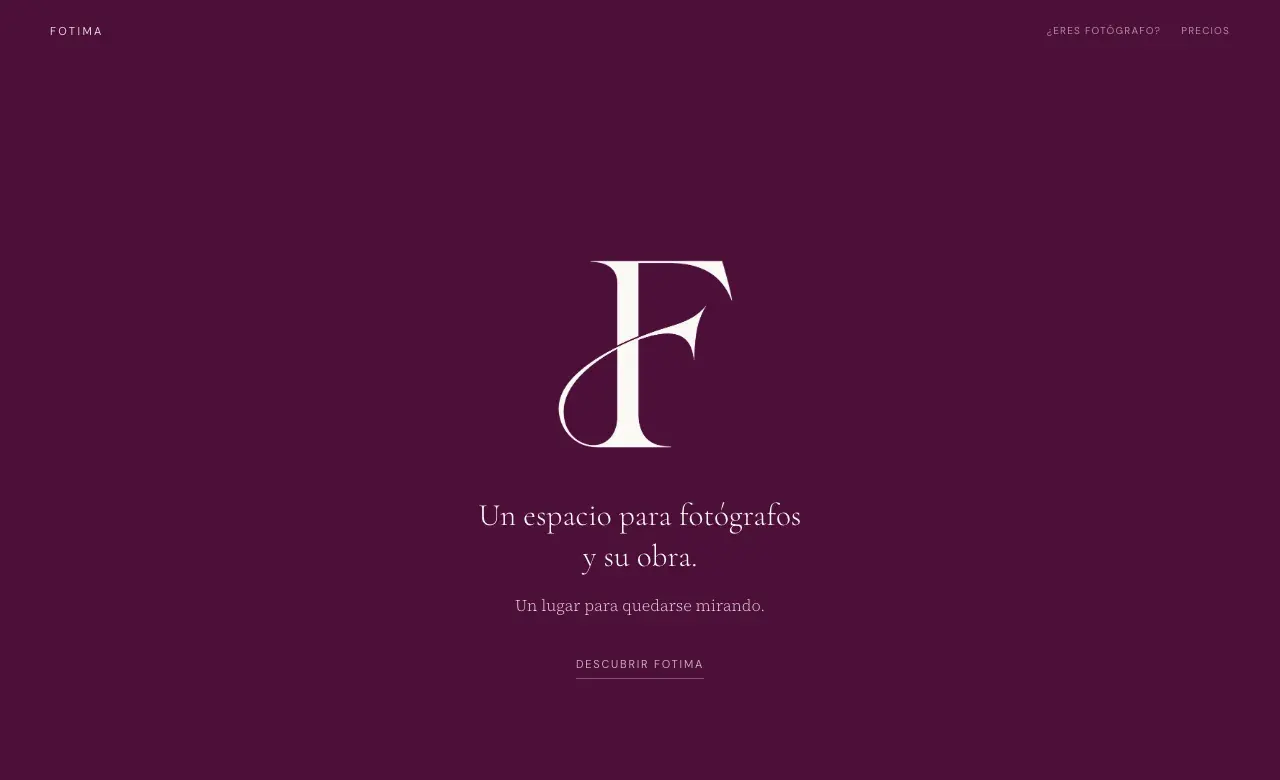
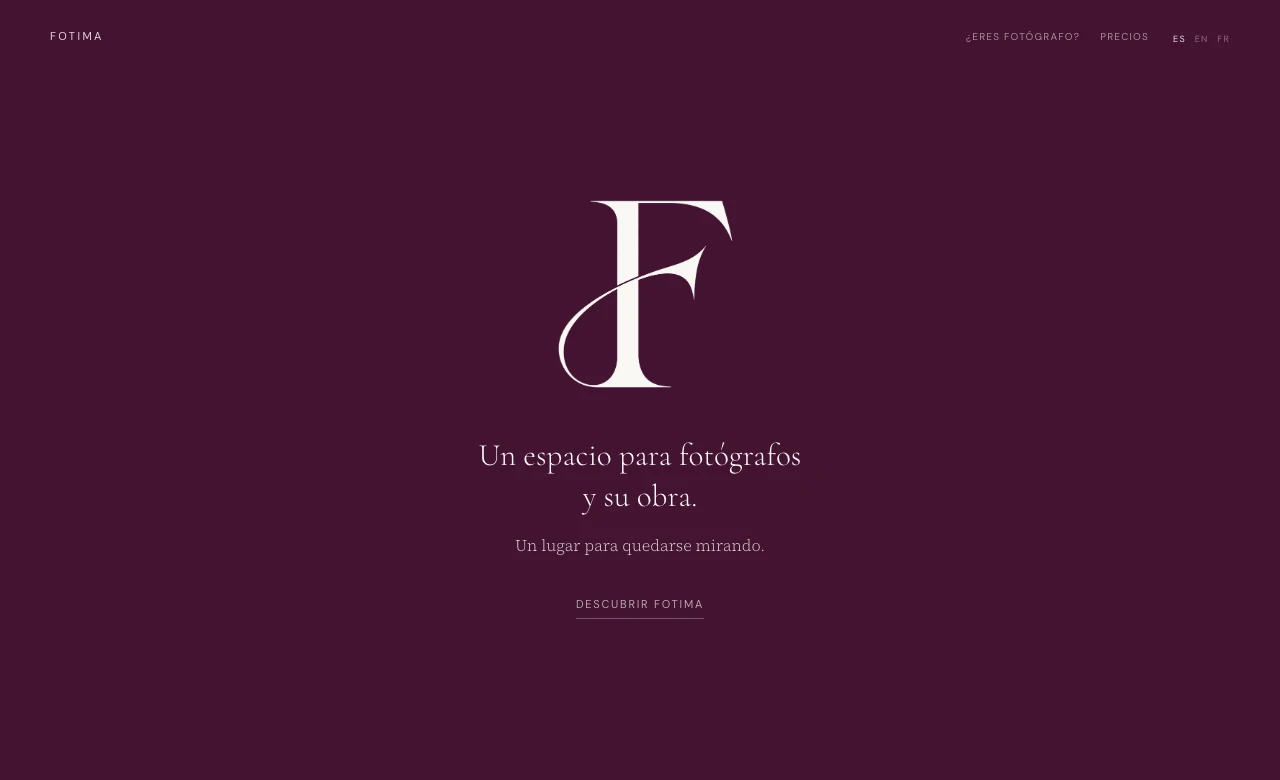
Actualiza Fotima en Trabajos con la landing y el copy actuales.

diff --git a/src/app/(site)/trabajos/page.js b/src/app/(site)/trabajos/page.js
@@ -21,8 +21,8 @@ const trabajos = {
   fotima: {
     id: "work-fotima",
     name: "Fotima",
-    text: "Un espacio para mirar la fotografía con calma, descubrir cada imagen y encontrar obras que merecen quedarse.",
-    href: "https://fotima.art",
+    text: "Un espacio para fotógrafos y su obra: una presencia digital cuidada, pensada para mostrar el trabajo y quedarse mirando.",
+    href: "https://www.fotima.art",
     label: "Visitar Fotima",
     shot: "/assets/trabajos/fotima-frame.webp",
     width: 1280,
